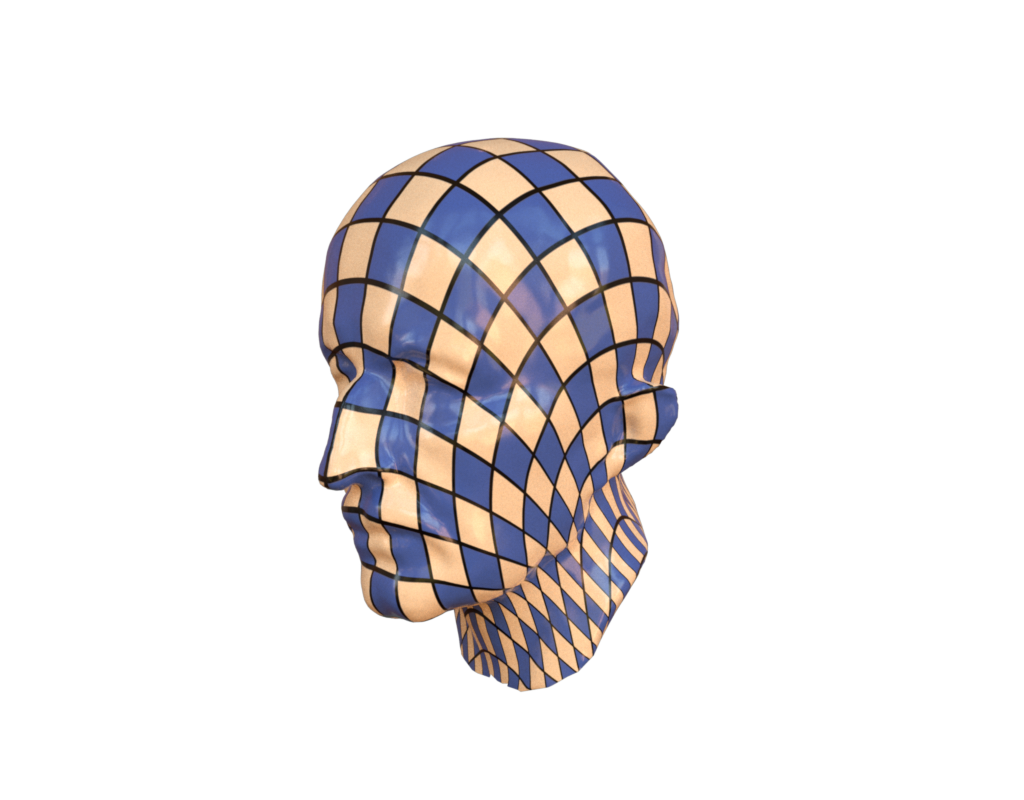
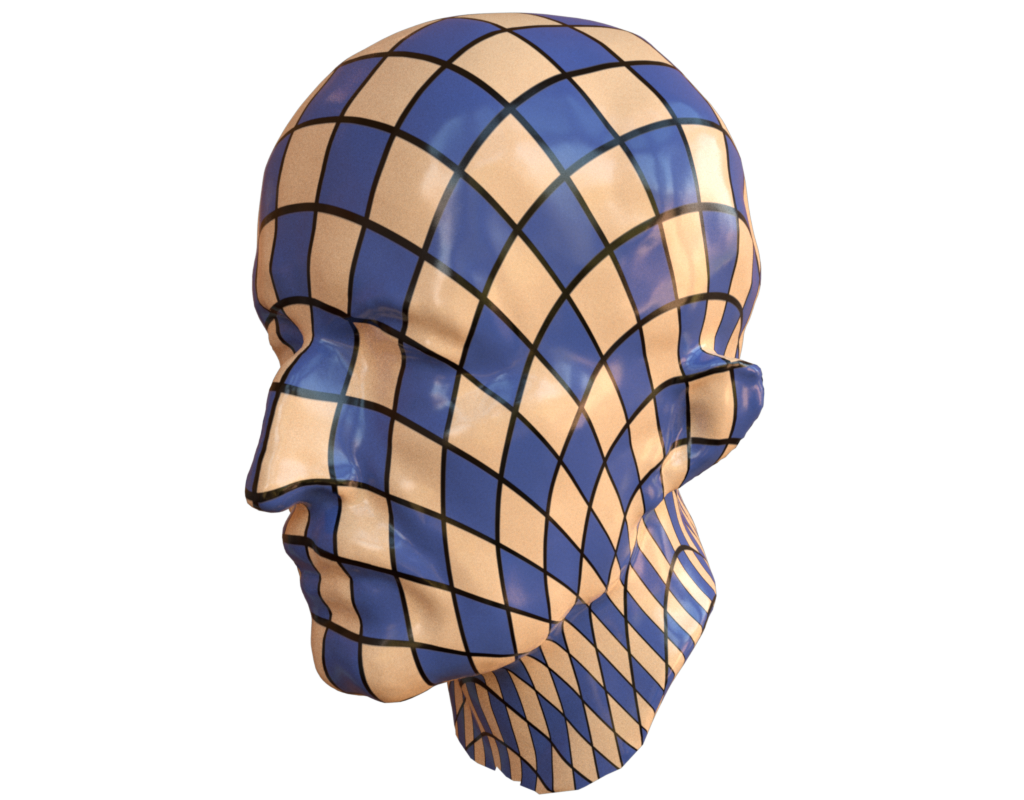
Simply slim code.

diff --git a/gallery/Slim/slim.py b/gallery/Slim/slim.py
@@ -2,8 +2,7 @@
 
 import hakowan as hkw
 import pathlib
-import scipy
-import numpy as np
+import math
 
 # Generate base layer setting.
 # We are using image-based texture for color in this example.
@@ -19,28 +18,26 @@ base = hkw.layer().channel(
 )
 
 # Figure 3
-fig3 = base.data("data/fig3.obj")
+fig3 = base.data("data/fig3.obj").rotate(axis=[0, 1, 0], angle=math.pi)
 
-# Minor adjustment of the camera and light.
+# Move the camera position closer.
 config = hkw.config()
-config.sensor.location = (0, 0, -4)
-config.emitters[0].rotation = 0
+config.sensor.location = [0, 0, 3]
 
+# Render!
 hkw.render(fig3, config, filename="results/fig3.png")
 
 # Figure 10
 
 # The input mesh comes at an odd orientation.
-# We apply affine transform to fix the orientation issue.
-M = np.eye(4, dtype=np.float64)
-M[:3, :3] = scipy.spatial.transform.Rotation.from_euler(
-    "x", -45, degrees=True
-).as_matrix()
-fig10 = base.data("data/fig10_uniform.obj").transform(hkw.transform.Affine(M))
+# We apply two rotations to fix the orientation issue.
+# First, we rotate the mesh around the x-axis by -45 degrees.
+# Then, we rotate the mesh around the y-axis by 135 degrees.
+fig10 = (
+    base.data("data/fig10_uniform.obj")
+    .rotate(axis=[1, 0, 0], angle=-math.pi / 4)
+    .rotate(axis=[0, 1, 0], angle=3 * math.pi / 4)
+)
 
-# Again, fine tuning the camera and light.
-config.y_up()
-config.sensor.location = (-3, 0, -3)
-config.emitters[0].rotation = 0
-
+# Render!
 hkw.render(fig10, config, filename="results/fig10.png")
